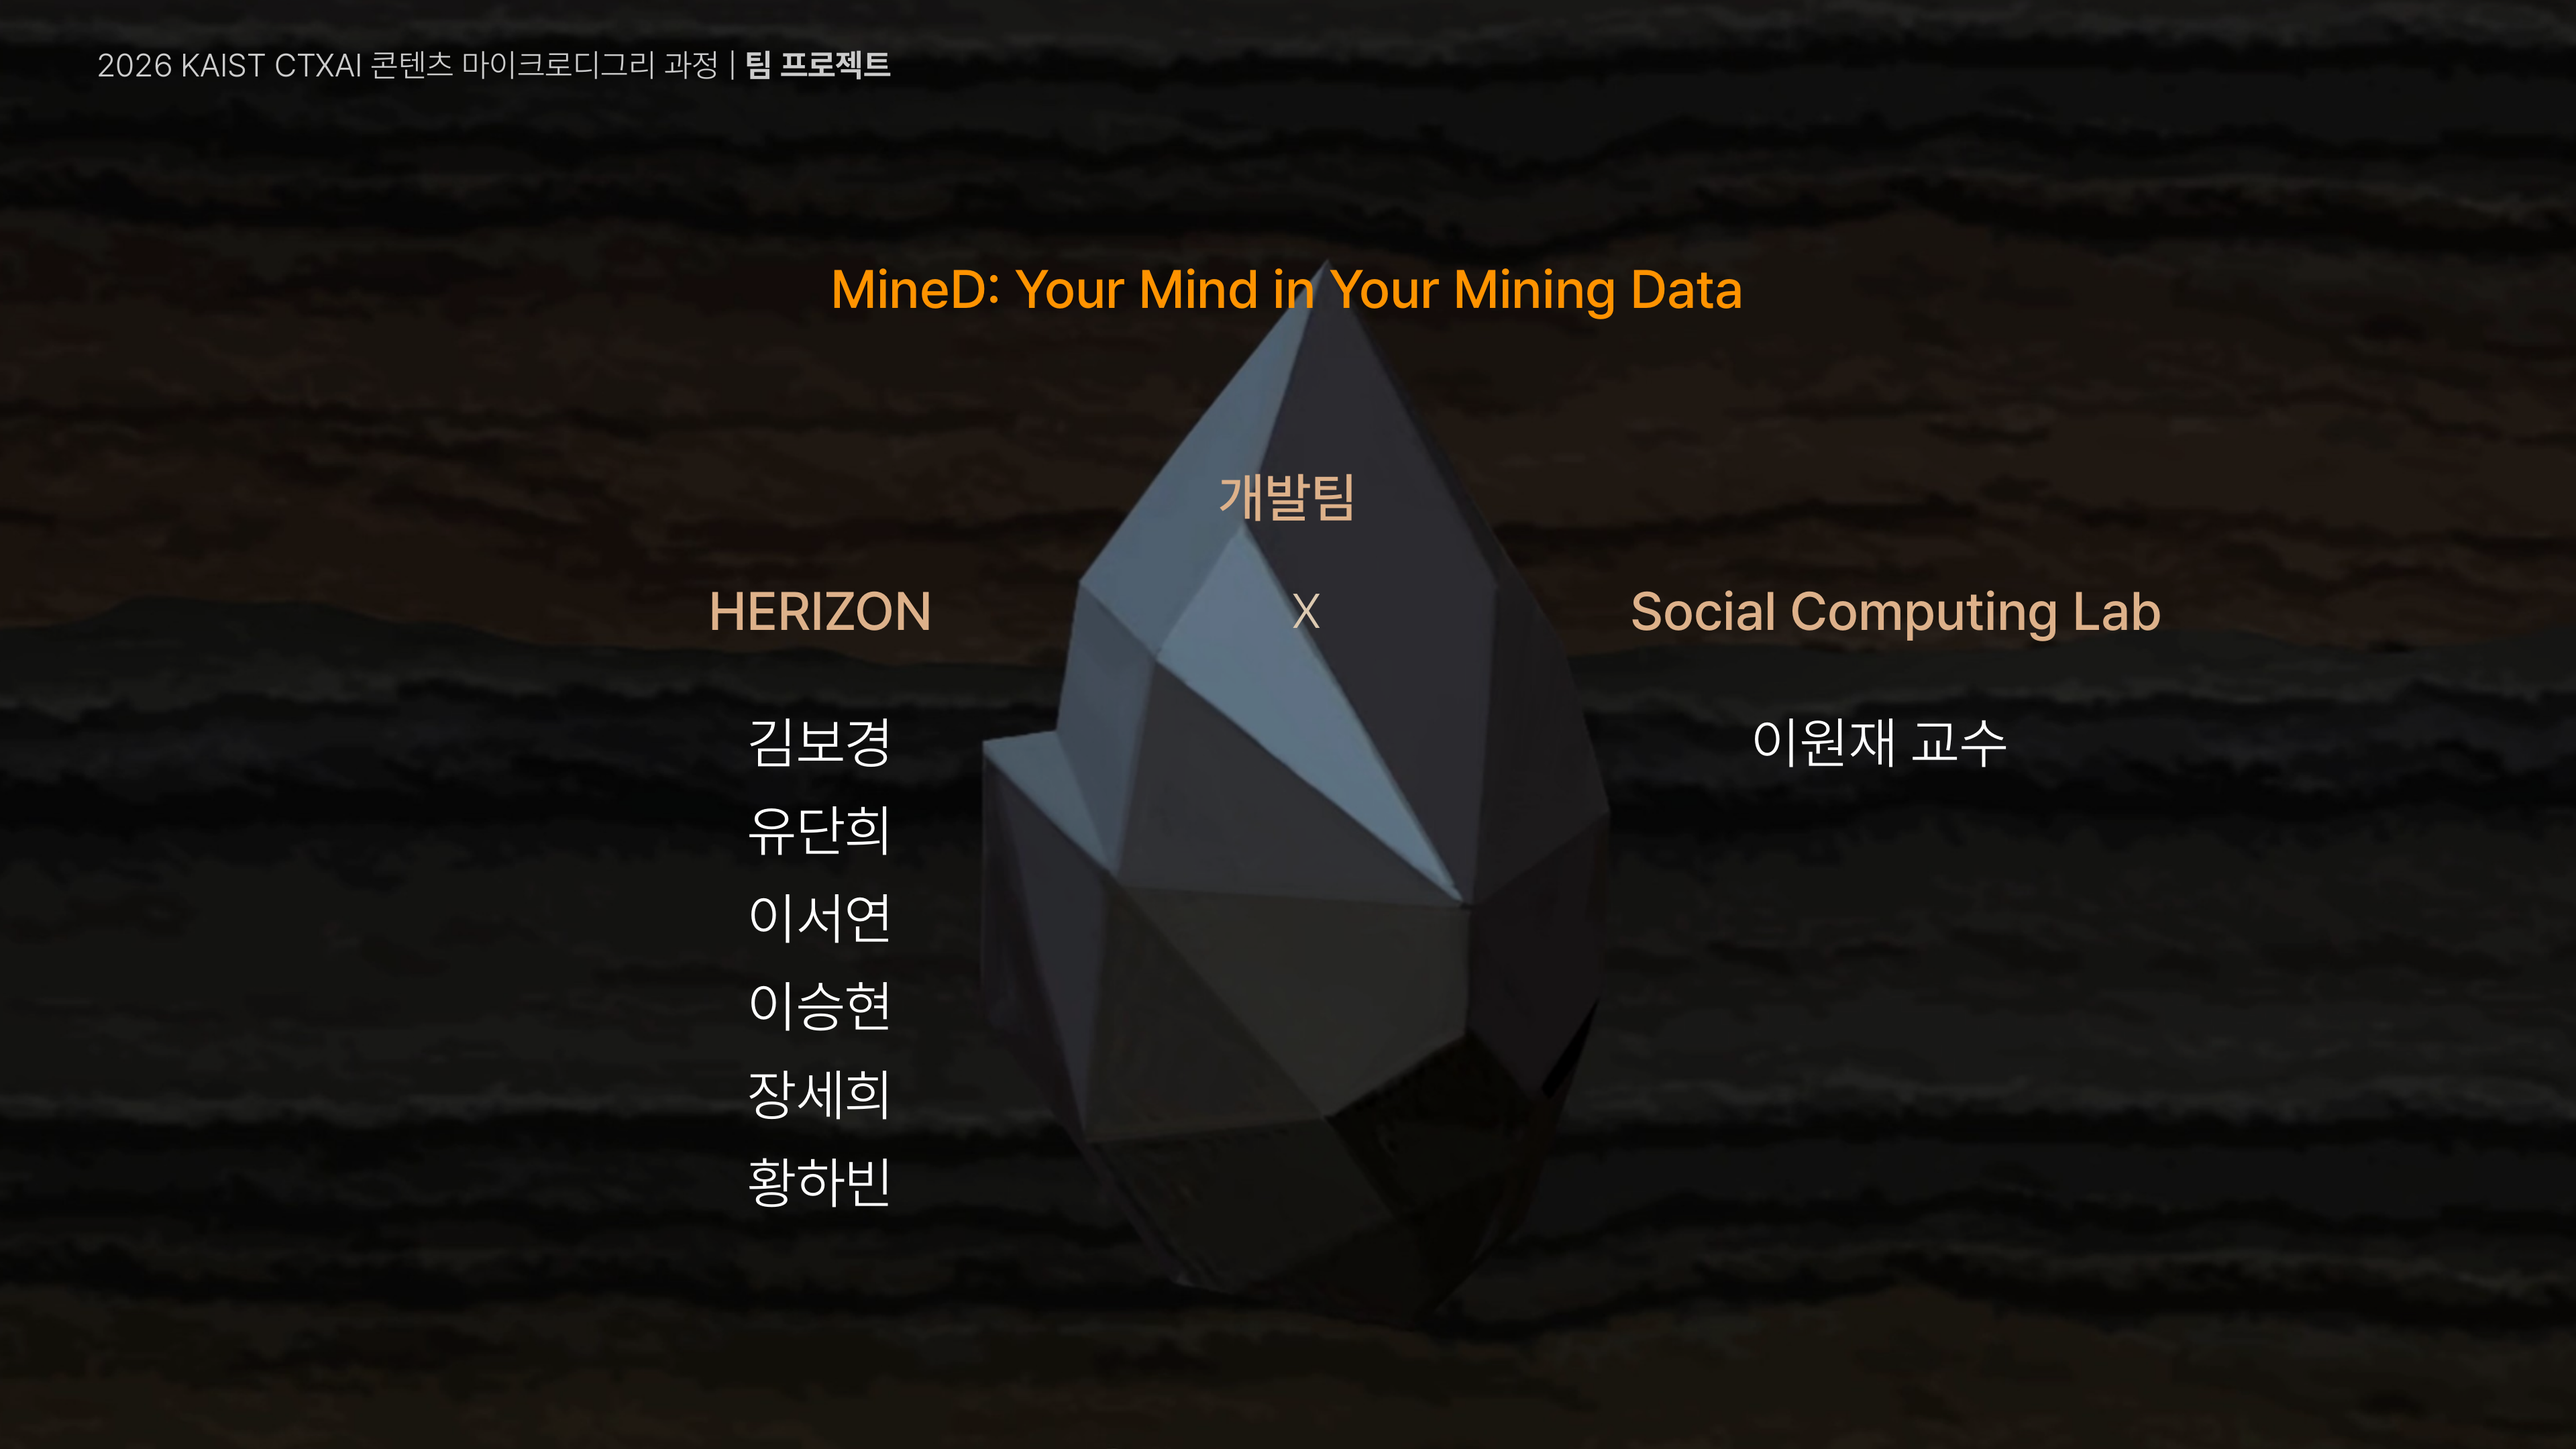
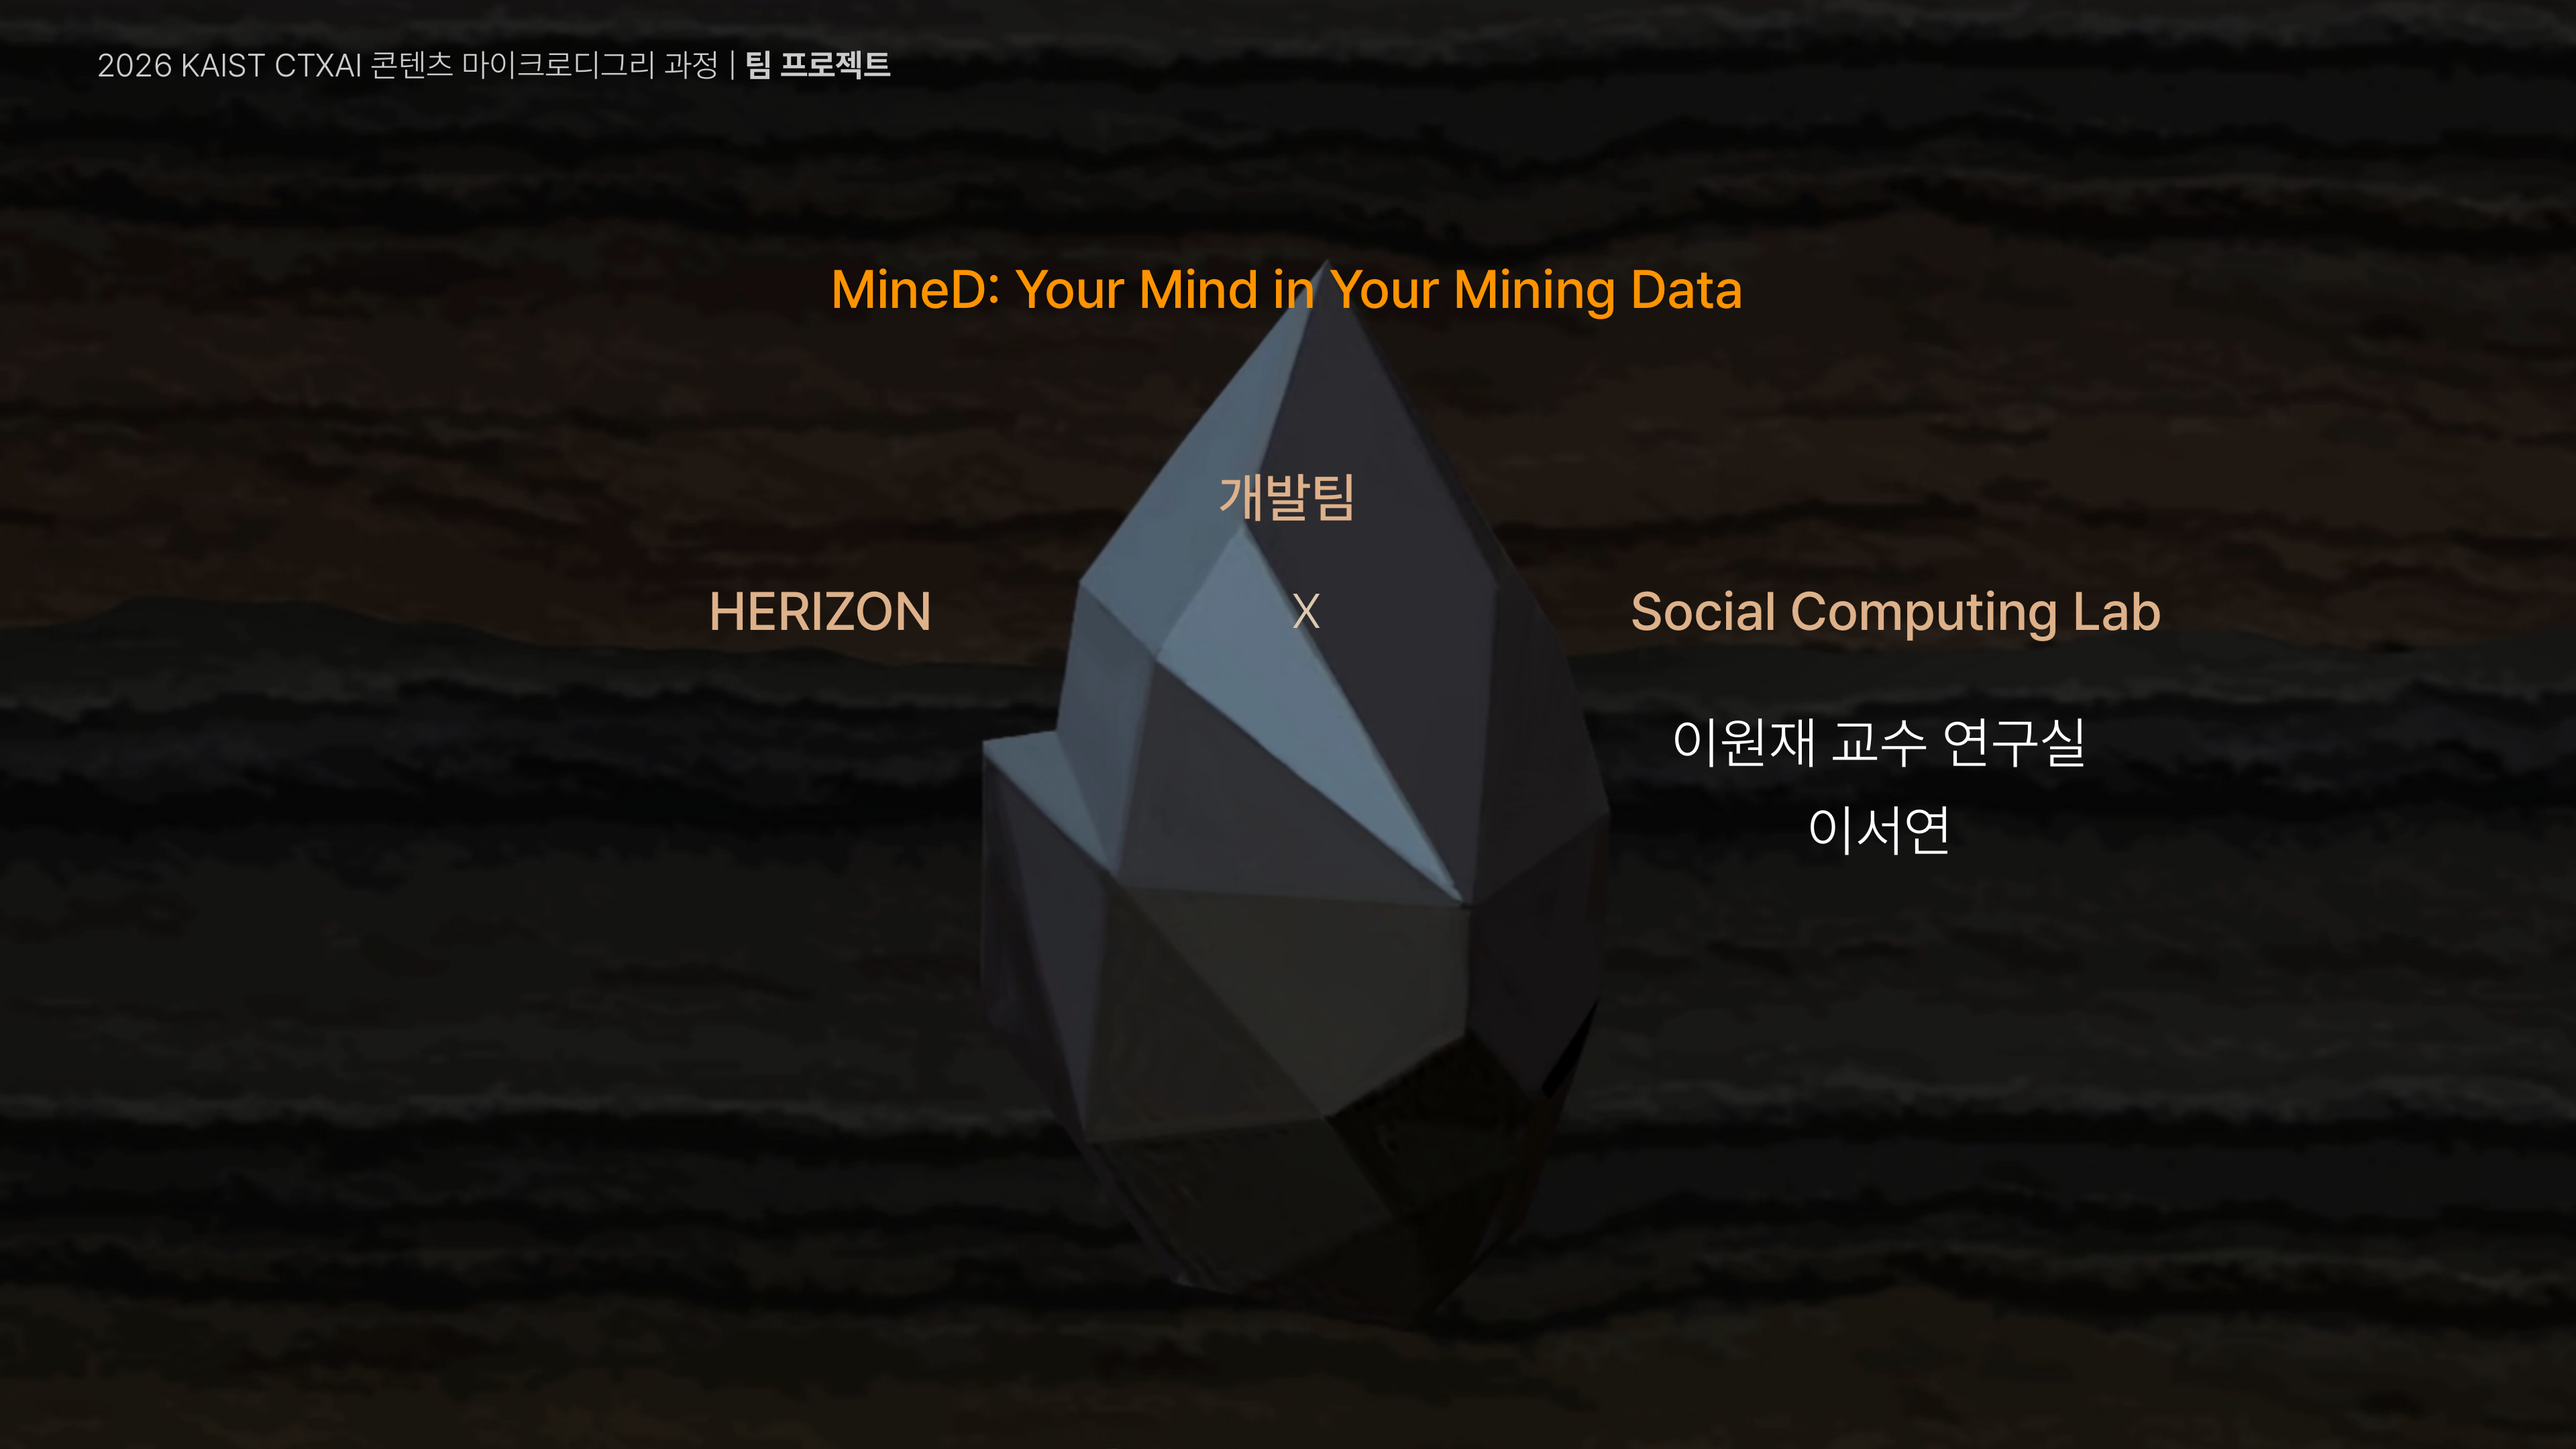
showcase layout pages: credits (team name only, SCL 이원재 교수 연구실 이서연), chatbot wording softened
Claude-Session: https://claude.ai/code/session_01H6XxrjKT2zziYGGeC5Esr8

diff --git a/showcase/v0.5_kit/layout/fill.py b/showcase/v0.5_kit/layout/fill.py
@@ -71,7 +71,7 @@ SCEN_L = ('이미 쌓인 나의 기록(사진·메모·건강·메신저·일정
 TECH_S = '개인 기록을 ‘한 주 = 한 층’이라는 시간 단위로 다시 정의했다. 기록을 브라우저 안에서만 읽어 수면·걸음·언어·소통 네 축을 그 사람의 평소 범위와 비교하고, 달랐던 축을 광석의 결 색으로 바꾼다.'
 TECH_L = ('MineD는 개인 기록을 ‘한 주 = 한 층’이라는 시간 단위로 다시 정의한 기록 시각화 웹 앱이다. 기록을 브라우저 안에서만 읽어 '
           '수면·걸음·언어·소통 네 축을 그 사람의 평소 범위와 비교하고, 평소를 벗어난 주는 광석으로, 벗어난 축은 결 색으로 바꾼다. 원문은 기기 밖으로 나가지 않는다. '
-          'KAIST 문화기술대학원 Social Computing Lab은 자기 기록 안에서 근거를 찾아 답하는 개인 기록 챗봇을 개발해 민디와의 대화에 연계했다.')
+          'KAIST 문화기술대학원 Social Computing Lab은 자기 기록 안에서 근거를 찾아 답하는 개인 기록 챗봇을 개발해 민디와의 대화에 연계하도록 설계했다.')
 AITOOL = 'Claude, ChatGPT, Google Flow(Veo 3.1), Seedance 2.0, GPT 이미지, Kling, Gemini, Suno, Kokoro, MediaPipe, CLIP'
 
 def tech_box(slide, body):
@@ -124,7 +124,7 @@ tmpl = b1  # 9번 본문 상자 서식 복제
 for k, (img, lines) in enumerate([
     ('ore.png', ['최근 12주는 한 주 한 층, 그 아래는 해마다 한 층. 네 축이 평소 범위를 벗어난 주를 광석으로 판정하고, 벗어난 축의 수만큼 결 색 고리를 겹친다.', '광석 판정과 지층 그리기는 모두 브라우저 안에서 이루어진다.']),
     ('diag.png', ['기록 가져오기부터 나의 섬까지 모든 처리를 기기 안에서 한다. 원문은 서버나 외부 모델로 보내지 않는다.', '생성형 AI는 세계 영상·이미지·목소리 제작에만 썼다.']),
-    ('chat.png', ['물으면 자기 기록 안에서 근거를 찾아 답하는 개인 기록 챗봇(검색 증강 생성). 답과 함께 근거가 된 주를 보여 준다.', 'Social Computing Lab이 개발하고 민디와의 대화에 연계했다.']),
+    ('chat.png', ['물으면 자기 기록 안에서 근거를 찾아 답하는 개인 기록 챗봇(검색 증강 생성).', 'Social Computing Lab이 개발하고, 민디와의 대화에 연계하도록 설계했다.']),
 ]):
     x = 2.5 + k * 16.35
     pic(s10, I(img), x + 0.6, 9.9, 14.5, 8.0)
@@ -132,10 +132,10 @@ for k, (img, lines) in enumerate([
     sh = s10.shapes[-1]; sh.left, sh.top, sh.width, sh.height = Inches(x + 0.6), Inches(18.3), Inches(14.5), Inches(6.0)
     set_text(sh, lines, DARK)
 
-# 크레딧 12·20 (HERIZON × SCL), 13·21 (팀 단독)  ※ 이름은 보별 확인 필요
-TEAM = ['김보경', '유단희', '이서연', '이승현', '장세희', '황하빈']
-for n in (12, 13, 20, 21):
-    set_text(find(S(n), '이서연'), TEAM)
+# 크레딧 12·20 (HERIZON × SCL): 11/09 보별 결정 = 팀원 개인 이름은 넣지 않음, 협업 = 이원재 교수 연구실 이서연
 for n in (12, 20):
-    set_text(find(S(n), '이원재'), ['이원재 교수'])
+    kill(S(n), '이서연')
+    set_text(find(S(n), '이원재'), ['이원재 교수 연구실', '이서연'])
+for n in (13, 21):  # 팀 단독 장(쓰지 않음): 이름 칸 비움
+    kill(S(n), '이서연')
 p.save(OUT)
